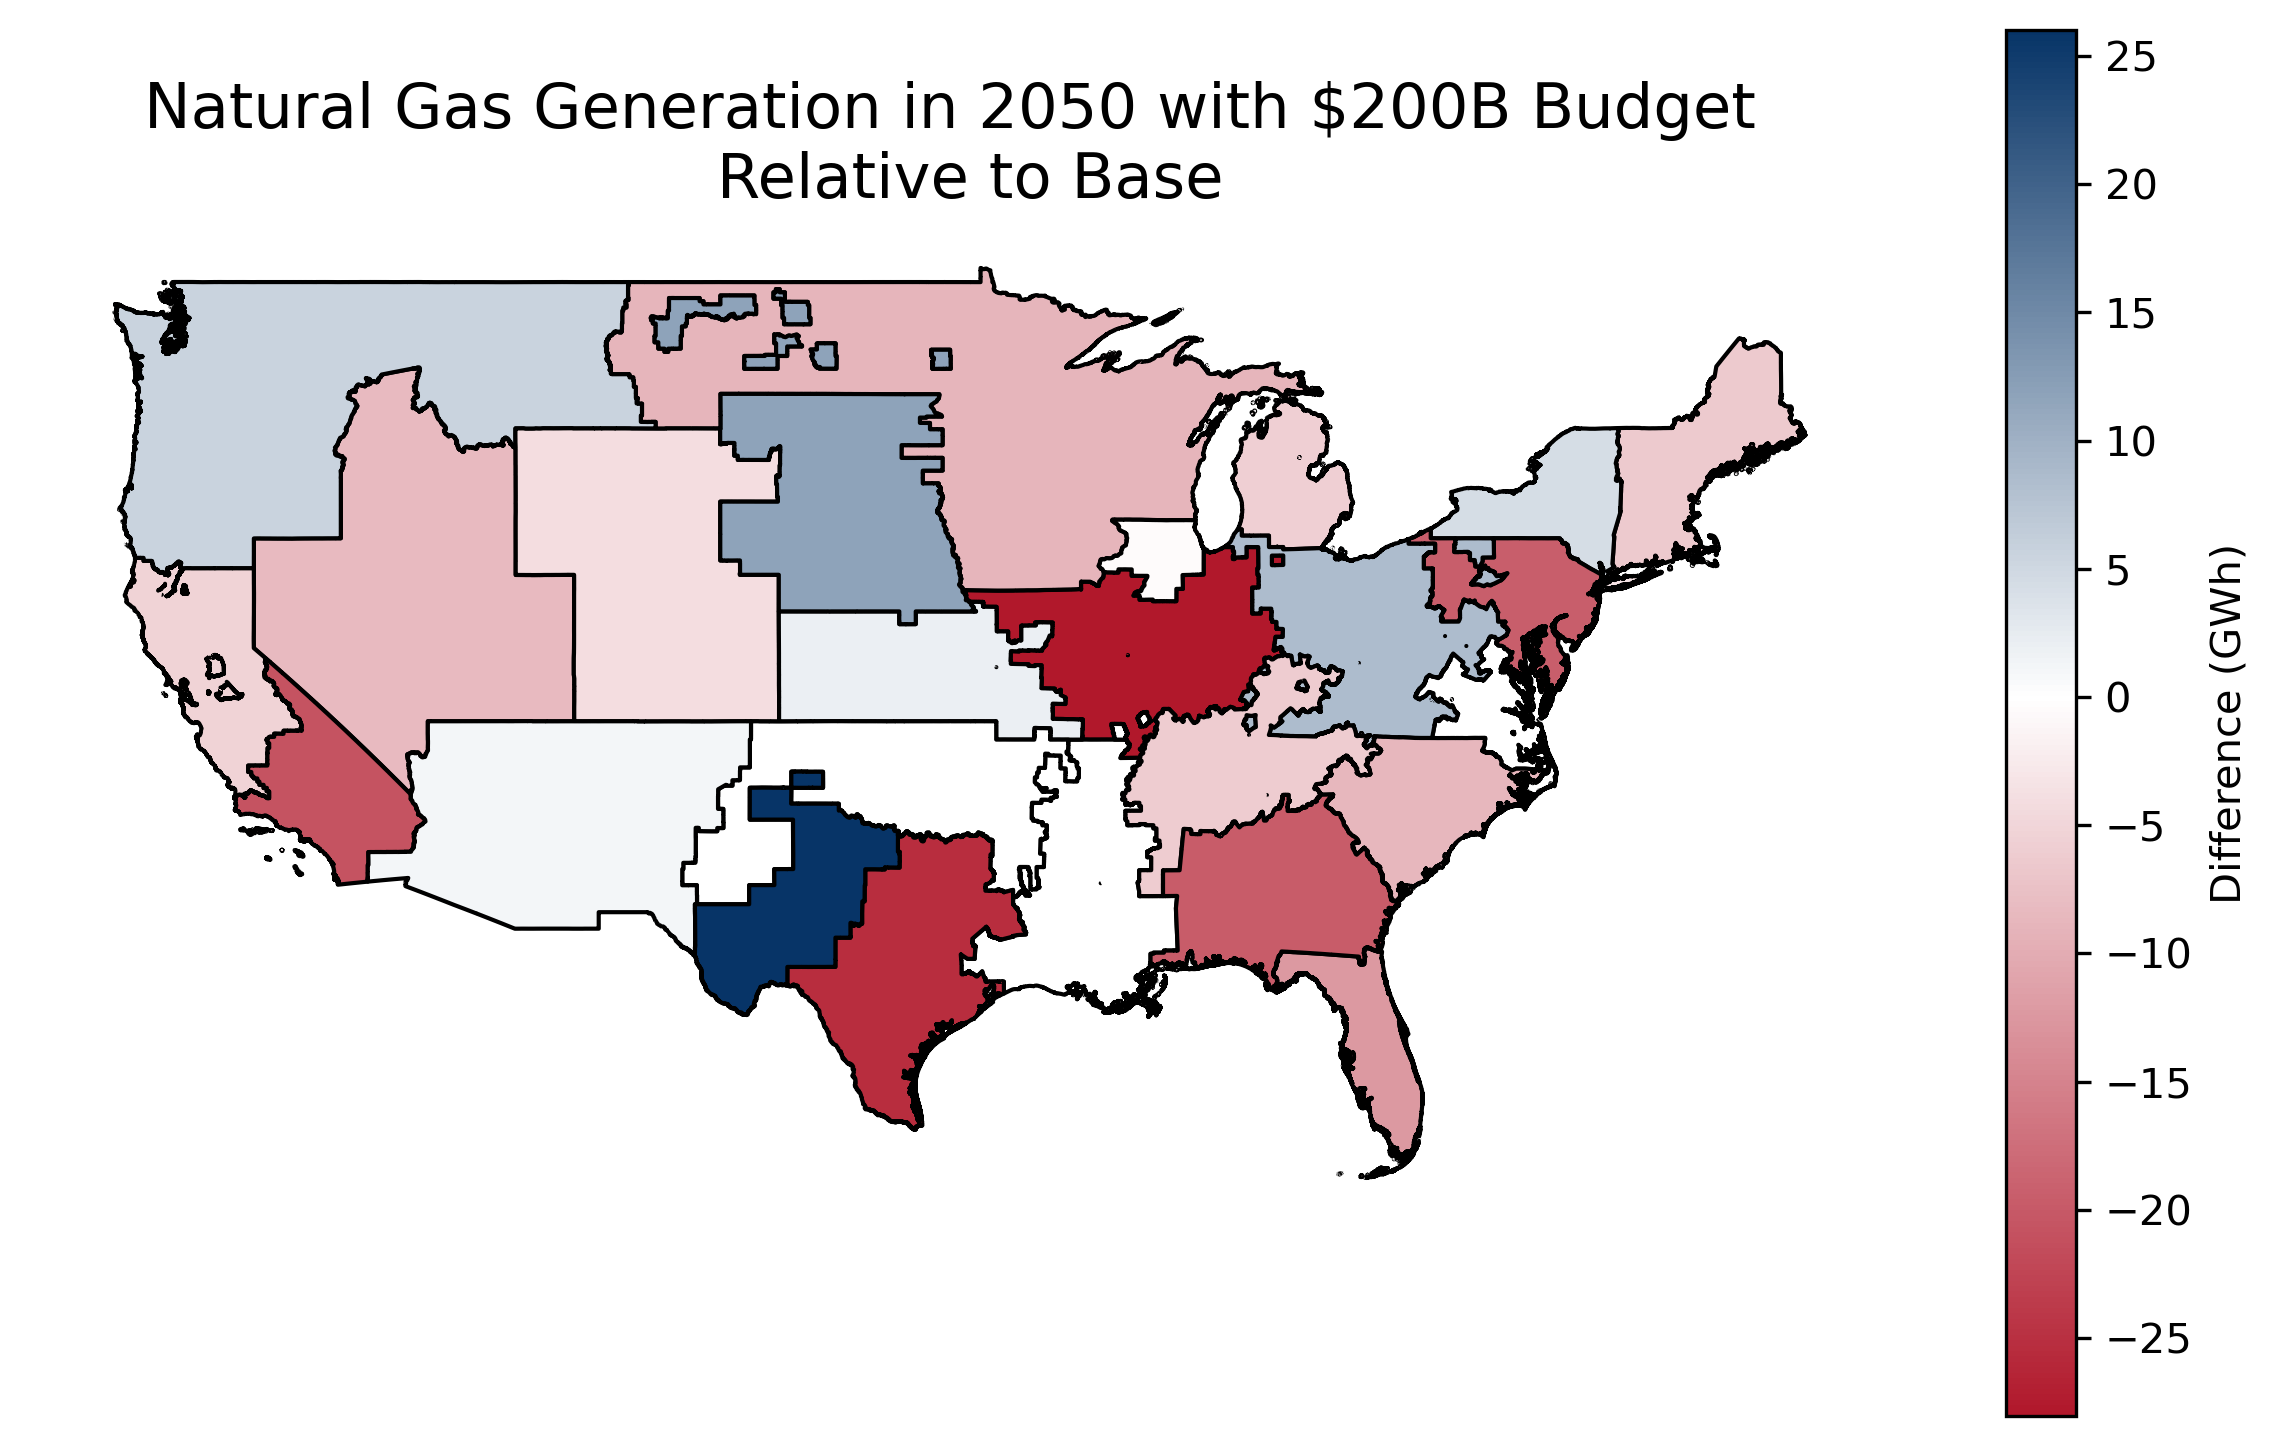
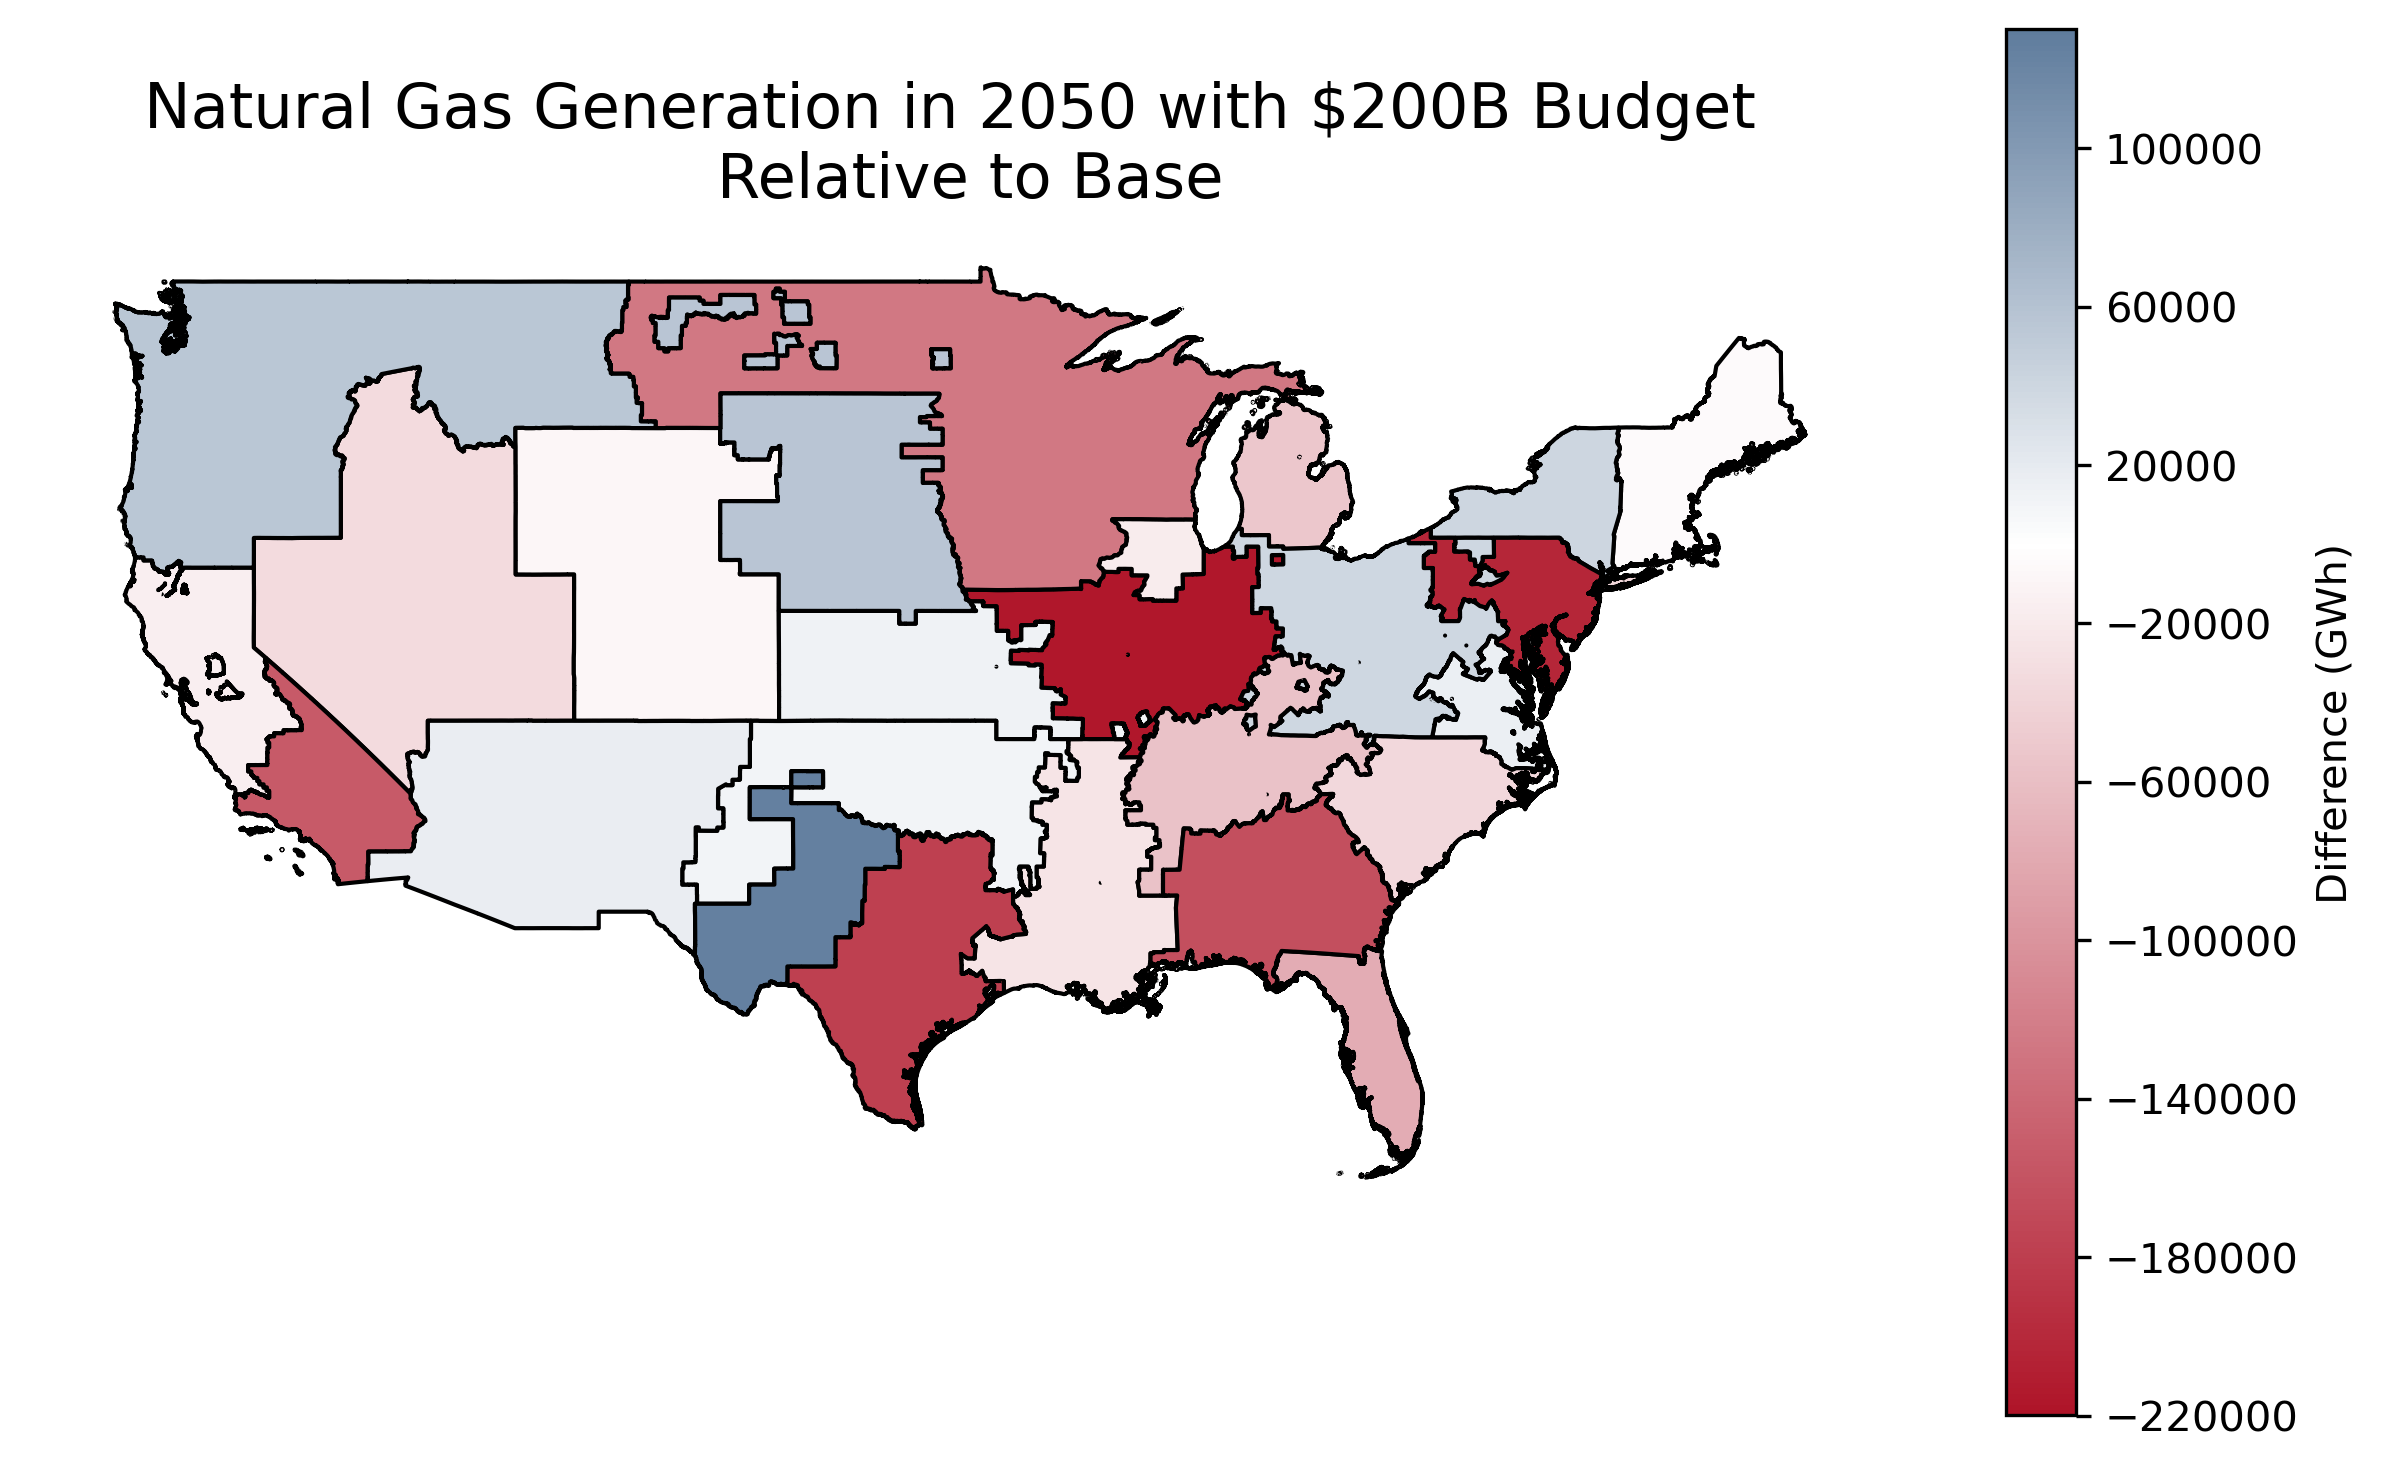
working on scales for figs

Changed region(s): [[0.0312, 0.1867, 0.81, 0.8091], [0.8412, 0.0, 0.9969, 0.9959], [0.0623, 0.0311, 0.7789, 0.1556]]

diff --git a/Endogenous/Paper_figures.py b/Endogenous/Paper_figures.py
@@ -85,6 +85,12 @@ def mix(color1, color2, ratio):
     return mcolors.to_hex((1 - ratio) * c1 + ratio * c2)
 
 light_red = mix(dark_red, white, 0.5)
+lighter_blue = mix(dark_blue, white, 0.3)
+
+def round_up_to_step(high, low, step):
+    steps = math.ceil((high - low) / step)
+    return low + steps * step
+
 
 #read in exposure coefs
 coefs=pd.DataFrame()
@@ -458,6 +464,7 @@ fig.savefig("MIP_AirPollution/Figures/EndogenousPaper/wind_capacity_map.png", dp
 ###################
 ## Plot Dispatch ##
 ###################
+
 dispatch_spatial = dispatch.groupby(['gen_energy_source', 'gen_load_zone', 'period', 'scenario']).agg({'Energy_GWh_typical_yr':'sum'}).reset_index()
 
 base = dispatch_spatial[dispatch_spatial['scenario']==f'{scenario}']
@@ -466,30 +473,42 @@ base.rename(columns={'Energy_GWh_typical_yr': 'Base_Gen'}, inplace=True)
 
 dispatch_spatial = pd.merge(dispatch_spatial, base, on=['gen_load_zone', 'gen_energy_source', 'period'], how='left')
 
-#calculate difference in capacity
+#calculate difference in dispatch
 dispatch_spatial['dif']=dispatch_spatial['Energy_GWh_typical_yr']-dispatch_spatial['Base_Gen']
-dispatch_spatial = dispatch_spatial.merge(ipm_regions, right_on='model_region', left_on='gen_load_zone', how='left')
+
+## first, figure out what big, small differences in generation are
+
+max_dif = dispatch_spatial['dif'].max()
+min_dif = dispatch_spatial['dif'].min()
+max_dif = max(abs(max_dif), abs(min_dif))
 
 c=200
 y=2050
 tech = 'Solar'
 
-plotdata = capacity_spatial[capacity_spatial['scenario']==f'{scenario}_{c}']
-plotdata = plotdata[plotdata['PERIOD']==y]
+plotdata = dispatch_spatial[dispatch_spatial['scenario']==f'{scenario}_{c}']
+plotdata = plotdata[plotdata['period']==y]
 plotdata = plotdata[plotdata['gen_energy_source']==tech]
+
+plotdata = ipm_regions.merge(plotdata, left_on='model_region', right_on='gen_load_zone', how='left')
+
 plotdata = gpd.GeoDataFrame(plotdata, geometry='geometry')
 plotdata.to_crs("EPSG:4326", inplace=True)
 
 # Create custom diverging colormap
-low = plotdata['dif'].min()
-high = plotdata['dif'].max()
+low = math.floor(plotdata['dif'].min()/5000)*5000
+high = math.ceil(plotdata['dif'].max()/5000)*5000
+ticks = np.arange(low, high+1, 20000)
+rounded_high = round_up_to_step(high, low, 10000)
 
+plot_red = mix(white, dark_red, abs(low/max_dif))
+plot_blue = mix(white, dark_blue, rounded_high/max_dif)
 custom_cmap = LinearSegmentedColormap.from_list(
     "custom_RdBu_subset",
     [
-        (0.0, light_red),                              # low end
+        (0.0, plot_red),                              # low end
         ((0 - low) / (high - low), white),             # midpoint
-        (1.0, dark_blue)                               # high end
+        (1.0, plot_blue)                               # high end
     ]
 )
 
@@ -511,7 +530,6 @@ plotdata.plot(column='dif',
 sm = plt.cm.ScalarMappable(cmap=custom_cmap, norm=norm)
 sm.set_array([])
 
-ticks = np.arange(-5, high + 1, 5)
 cbar = plt.colorbar(sm, ax=ax, ticks=ticks)
 cbar.set_label("Difference (GWh)")
 
@@ -519,27 +537,34 @@ ax.set_title("Solar Generation in 2050 with $200B Budget \n Relative to Base", f
 ax.set_axis_off()
 fig.savefig("MIP_AirPollution/Figures/EndogenousPaper/solar_generation_map.png", dpi=300, bbox_inches='tight')
 
-
+##############
+## Wind ######
+##############
 
 c=200
 y=2050
 tech = 'Wind'
 
-plotdata = capacity_spatial[capacity_spatial['scenario']==f'{scenario}_{c}']
-plotdata = plotdata[plotdata['PERIOD']==y]
+plotdata = dispatch_spatial[dispatch_spatial['scenario']==f'{scenario}_{c}']
+plotdata = plotdata[plotdata['period']==y]
 plotdata = plotdata[plotdata['gen_energy_source']==tech]
+
+plotdata = ipm_regions.merge(plotdata, left_on='model_region', right_on='gen_load_zone', how='left')
 plotdata = gpd.GeoDataFrame(plotdata, geometry='geometry')
 plotdata.to_crs("EPSG:4326", inplace=True)
 
 # Create custom diverging colormap
-low = plotdata['dif'].min()
-high = plotdata['dif'].max()
+low = 0
+high = math.ceil(plotdata['dif'].max()/5000)*5000
+ticks = np.arange(low, high+1, 20000)
+rounded_high = round_up_to_step(high, low, 20000)
 
+plot_blue = mix(white, dark_blue, rounded_high/max_dif)
 custom_cmap = LinearSegmentedColormap.from_list(
     "custom_RdBu_subset",
     [
         (0.0, white),                              # low end
-        (1.0, dark_blue)                               # high end
+        (1.0, plot_blue)                               # high end
     ]
 )
 
@@ -561,7 +586,6 @@ plotdata.plot(column='dif',
 sm = plt.cm.ScalarMappable(cmap=custom_cmap, norm=norm)
 sm.set_array([])
 
-ticks = np.arange(-5, high + 1, 5)
 cbar = plt.colorbar(sm, ax=ax, ticks=ticks)
 cbar.set_label("Difference (GWh)")
 
@@ -569,28 +593,35 @@ ax.set_title("Wind Generation in 2050 with $200B Budget \n Relative to Base", fo
 ax.set_axis_off()
 fig.savefig("MIP_AirPollution/Figures/EndogenousPaper/wind_generation_map.png", dpi=300, bbox_inches='tight')
 
-### Naturalgas
-
+####################
+### Naturalgas #####
+####################
 c=200
 y=2050
 tech = 'Naturalgas'
 
-plotdata = capacity_spatial[capacity_spatial['scenario']==f'{scenario}_{c}']
-plotdata = plotdata[plotdata['PERIOD']==y]
+plotdata = dispatch_spatial[dispatch_spatial['scenario']==f'{scenario}_{c}']
+plotdata = plotdata[plotdata['period']==y]
 plotdata = plotdata[plotdata['gen_energy_source']==tech]
+
+plotdata = ipm_regions.merge(plotdata, left_on='model_region', right_on='gen_load_zone', how='left')
 plotdata = gpd.GeoDataFrame(plotdata, geometry='geometry')
 plotdata.to_crs("EPSG:4326", inplace=True)
 
 # Create custom diverging colormap
-low = plotdata['dif'].min()
-high = plotdata['dif'].max()
+low = math.floor(plotdata['dif'].min()/5000)*5000
+high = math.ceil(plotdata['dif'].max()/5000)*5000
+ticks = np.arange(low, high+1, 40000)
+rounded_high = round_up_to_step(high, low, 40000)
 
+plot_red = mix(white, dark_red, abs(low/max_dif))
+plot_blue = mix(white, dark_blue, rounded_high/max_dif)
 custom_cmap = LinearSegmentedColormap.from_list(
     "custom_RdBu_subset",
     [
-        (0.0, dark_red),                              # low end
+        (0.0, plot_red),                              # low end
         ((0 - low) / (high - low), white),             # midpoint
-        (1.0, dark_blue)                               # high end
+        (1.0, plot_blue)                               # high end
     ]
 )
 
@@ -612,11 +643,125 @@ plotdata.plot(column='dif',
 sm = plt.cm.ScalarMappable(cmap=custom_cmap, norm=norm)
 sm.set_array([])
 
-ticks = np.arange(5 * math.floor(low / 5), 5 * math.ceil(high / 5), 5)
 cbar = plt.colorbar(sm, ax=ax, ticks=ticks)
 cbar.set_label("Difference (GWh)")
 
 ax.set_title("Natural Gas Generation in 2050 with $200B Budget \n Relative to Base", fontsize=15)
 ax.set_axis_off()
-
 fig.savefig("MIP_AirPollution/Figures/EndogenousPaper/naturalgas_generation_map.png", dpi=300, bbox_inches='tight')
+
+
+## Show that coal gets killed off faster with more money
+
+c=200
+y=2027
+tech = 'Coal'
+
+plotdata = dispatch_spatial
+plotdata = plotdata[plotdata['period']==y]
+plotdata = plotdata[plotdata['gen_energy_source']==tech]
+
+maxdif = plotdata['dif'].min()
+
+plotdata = plotdata[plotdata['scenario']==f'{scenario}_{c}']
+plotdata = ipm_regions.merge(plotdata, left_on='model_region', right_on='gen_load_zone', how='left')
+plotdata['dif'] = plotdata['dif'].fillna(0)
+plotdata = gpd.GeoDataFrame(plotdata, geometry='geometry')
+plotdata.to_crs("EPSG:4326", inplace=True)
+
+# Create custom diverging colormap
+low = math.floor(plotdata['dif'].min()/10000)*10000
+high = 0 
+ticks = np.arange(low, high+1, 20000)
+rounded_high = round_up_to_step(high, low, 20000)
+
+plot_red = mix(white, dark_red, low/maxdif)
+custom_cmap = LinearSegmentedColormap.from_list(
+    "custom_RdBu_subset",
+    [
+        (0.0, plot_red),                              # low end
+        (1.0, white)                               # high end
+    ]
+)
+
+# Use Normalize instead of TwoSlopeNorm for true linear spacing
+norm = Normalize(vmin=low, vmax=high)
+
+
+# 3. Plot
+fig, ax = plt.subplots(1, 1, figsize=(10, 6))
+
+plotdata.plot(column='dif', 
+              ax=ax, 
+              cmap=custom_cmap, 
+              edgecolor='black',
+              norm=norm,
+              legend=False)
+
+# 4. Add colorbar
+sm = plt.cm.ScalarMappable(cmap=custom_cmap, norm=norm)
+sm.set_array([])
+
+cbar = plt.colorbar(sm, ax=ax, ticks=ticks)
+cbar.set_label("Difference (GWh)")
+
+ax.set_title("Coal Generation in 2027 with $200B Budget \n Relative to Base", fontsize=15)
+ax.set_axis_off()
+fig.savefig("MIP_AirPollution/Figures/EndogenousPaper/coal_generation_map_2027_200B.png", dpi=300, bbox_inches='tight')
+
+
+c=50
+y=2027
+tech = 'Coal'
+
+plotdata = dispatch_spatial
+plotdata = plotdata[plotdata['period']==y]
+plotdata = plotdata[plotdata['gen_energy_source']==tech]
+
+maxdif = plotdata['dif'].min()
+
+plotdata = plotdata[plotdata['scenario']==f'{scenario}_{c}']
+plotdata = ipm_regions.merge(plotdata, left_on='model_region', right_on='gen_load_zone', how='left')
+plotdata['dif'] = plotdata['dif'].fillna(0)
+plotdata = gpd.GeoDataFrame(plotdata, geometry='geometry')
+plotdata.to_crs("EPSG:4326", inplace=True)
+
+# Create custom diverging colormap
+low = math.floor(plotdata['dif'].min()/10000)*10000
+high = 0 
+ticks = np.arange(low, high+1, 20000)
+rounded_high = round_up_to_step(high, low, 20000)
+
+plot_red = mix(white, dark_red, low/maxdif)
+custom_cmap = LinearSegmentedColormap.from_list(
+    "custom_RdBu_subset",
+    [
+        (0.0, plot_red),                              # low end
+        (1.0, white)                               # high end
+    ]
+)
+
+# Use Normalize instead of TwoSlopeNorm for true linear spacing
+norm = Normalize(vmin=low, vmax=high)
+
+
+# 3. Plot
+fig, ax = plt.subplots(1, 1, figsize=(10, 6))
+
+plotdata.plot(column='dif', 
+              ax=ax, 
+              cmap=custom_cmap, 
+              edgecolor='black',
+              norm=norm,
+              legend=False)
+
+# 4. Add colorbar
+sm = plt.cm.ScalarMappable(cmap=custom_cmap, norm=norm)
+sm.set_array([])
+
+cbar = plt.colorbar(sm, ax=ax, ticks=ticks)
+cbar.set_label("Difference (GWh)")
+
+ax.set_title("Coal Generation in 2027 with $200B Budget \n Relative to Base", fontsize=15)
+ax.set_axis_off()
+fig.savefig("MIP_AirPollution/Figures/EndogenousPaper/coal_generation_map_2027_50B.png", dpi=300, bbox_inches='tight')
